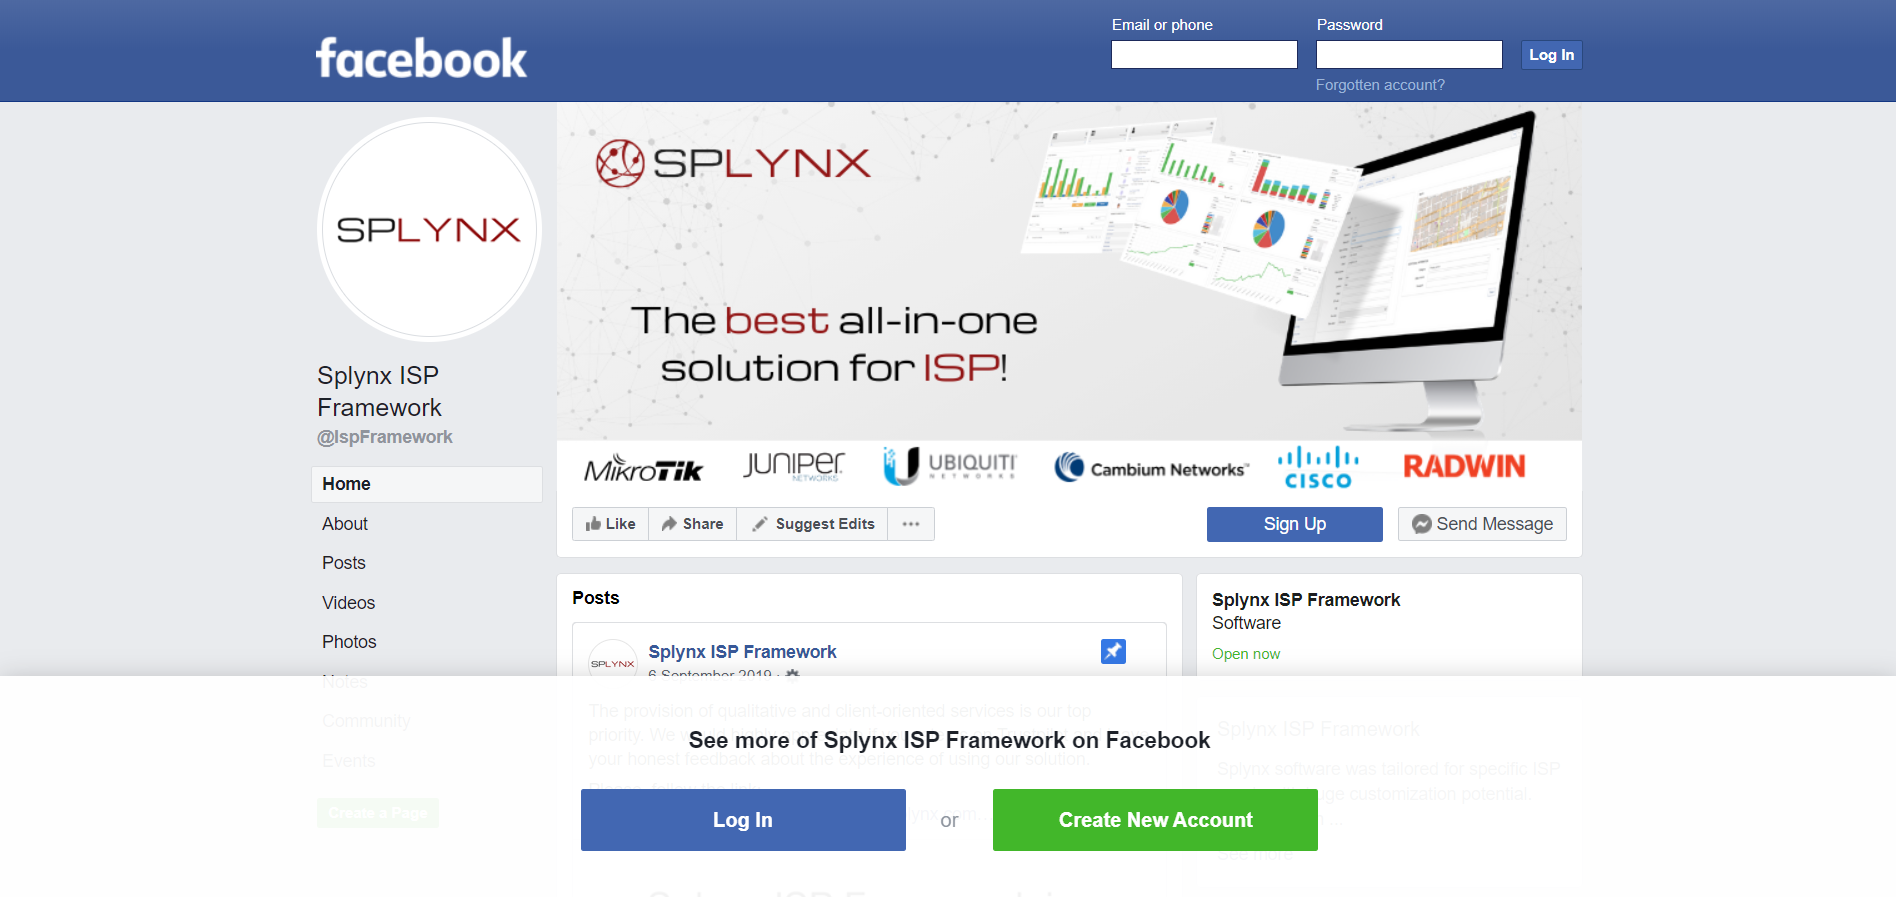
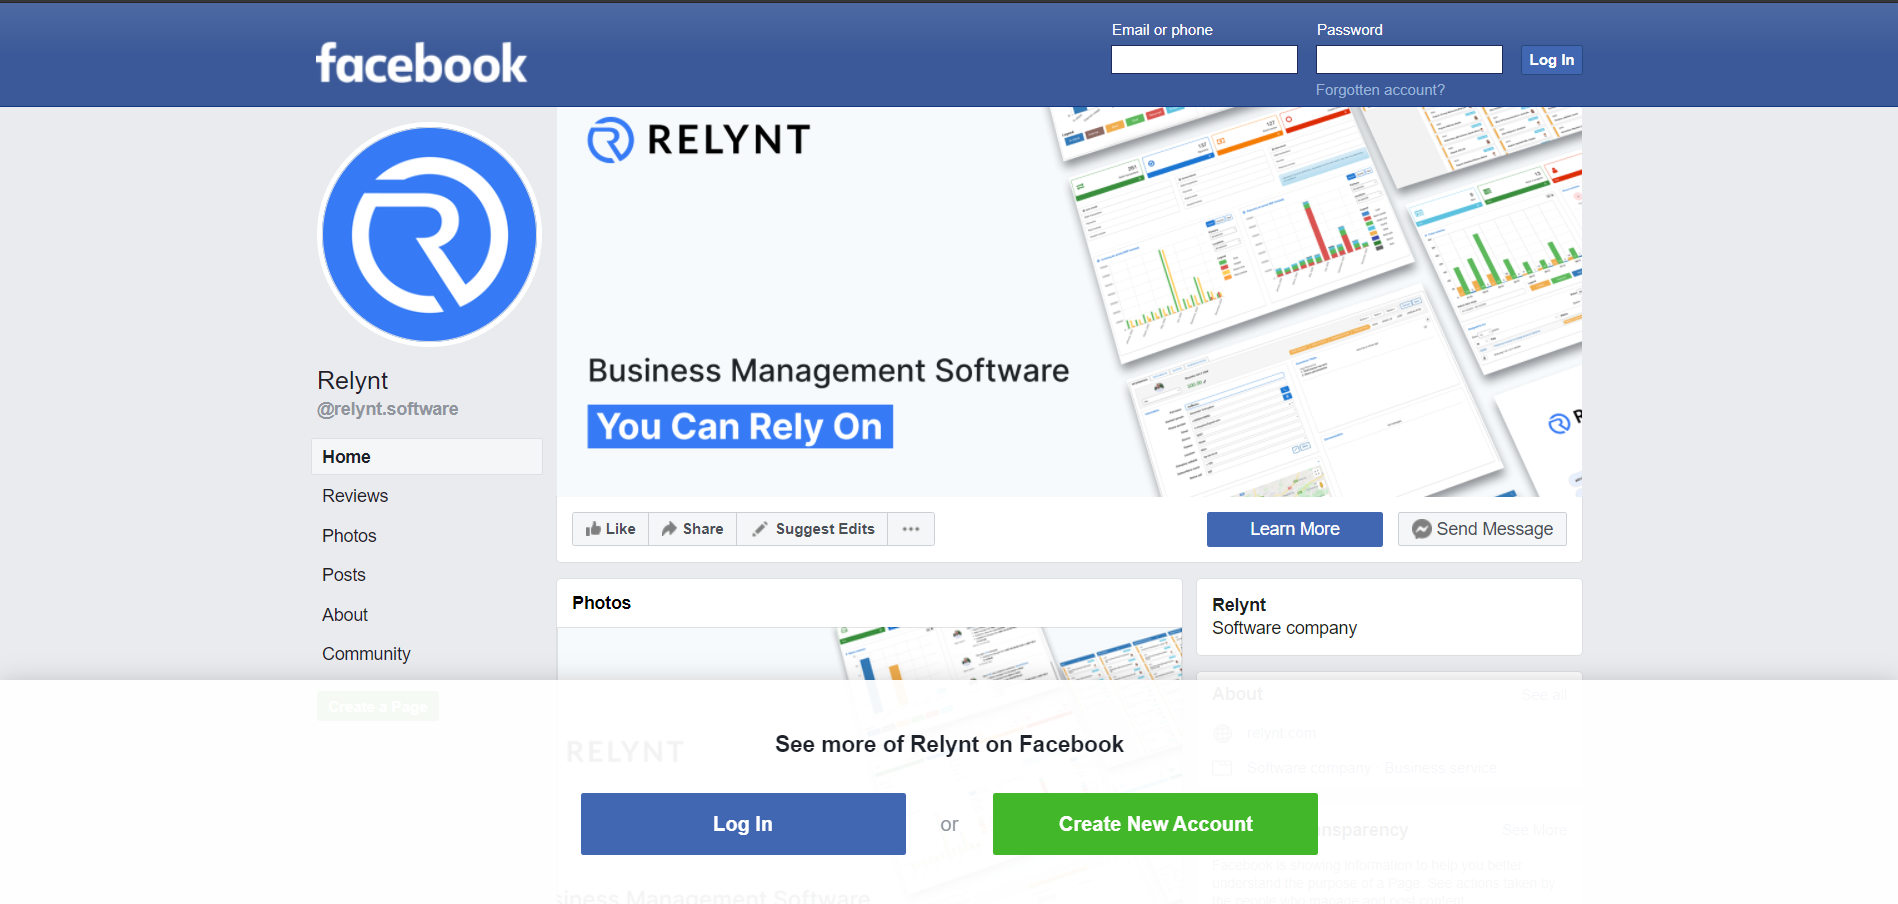
Information logs partially updated

diff --git a/files/en/administration/logs/accounting_integrations/accounting_integrations.md b/files/en/administration/logs/accounting_integrations/accounting_integrations.md
@@ -9,4 +9,4 @@ In order for the system to properly categorize these elements it is necessary to
 
 Each of the tabs in this section can be filtered to display data by the ID relevant to the tab(Customer, Invoice or Payment ID), a specific period, the modified status(All, Yes or No) or the accounting status of each of the elements(All, New, Pending, Error or OK).
 
-Like all tables in Splynx, the table can be modified to display data of your choice with the breadcrumbs icon at the bottom of the table or exported in a format of choice with the export icon<icon class="image-icon">![Table tools](table_tools.png)</icon>.
+Like all tables in Relynt, the table can be modified to display data of your choice with the breadcrumbs icon at the bottom of the table or exported in a format of choice with the export icon<icon class="image-icon">![Table tools](table_tools.png)</icon>.

diff --git a/files/en/administration/information/video_tutorials/video_tutorials.md b/files/en/administration/information/video_tutorials/video_tutorials.md
@@ -1,8 +1,8 @@
 Video Tutorials
 =========
 
-Navigating to this section will simply redirect you to the Splynx Youtube channel, where you can find tutorial videos, discussions and seminars, and a lot of useful information in video form:
+Navigating to this section will simply redirect you to the Relynt Youtube channel, where you can find tutorial videos, discussions and seminars, and a lot of useful information in video form:
 
-https://www.youtube.com/c/Splynx
+https://www.youtube.com/channel/UCOjDrYyXJWw72yShL9jht7w
 
 ![Video Tutorials](video_tutorials.png)

diff --git a/files/en/administration/information/facebook/facebook.md b/files/en/administration/information/facebook/facebook.md
@@ -1,9 +1,9 @@
 Facebook
 ==========
 
-Navigating to this section will redirect you to the Splynx Facebook page:
+Navigating to this section will redirect you to the Relynt Facebook page:
 
-https://www.facebook.com/IspFramework
+https://www.facebook.com/relynt.software/
 
 ![Facebook](facebook.png)
 
